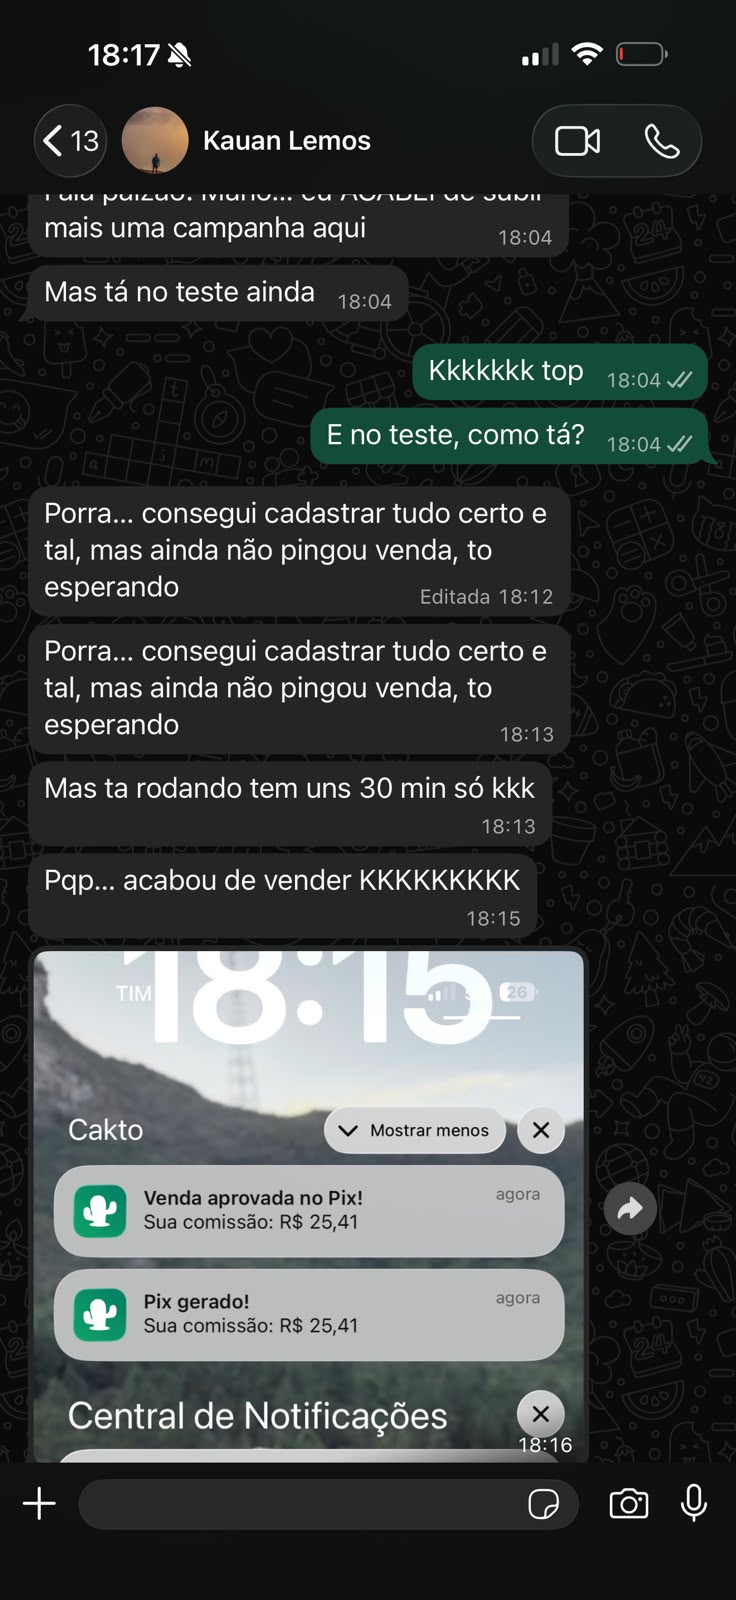
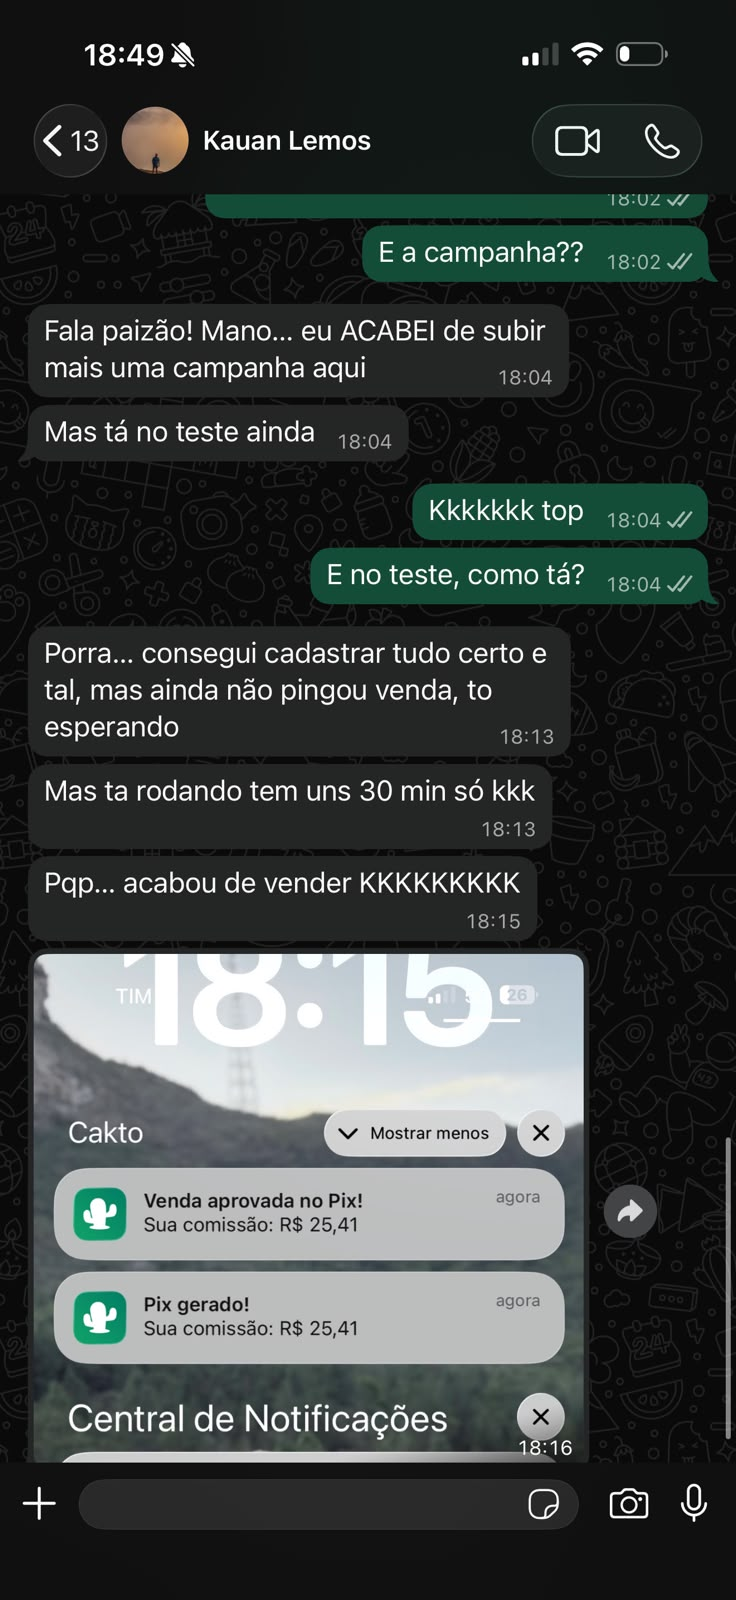
ajustes bordas

diff --git a/index.html b/index.html
@@ -3,10 +3,10 @@
   <head>
     <meta charset="UTF-8" />
     <meta name="viewport" content="width=device-width, initial-scale=1.0" />
-    <title>Método P+100 — Fature seu primeiro dinheiro online em 24h</title>
+    <title>Método P+100 — Venda hoje como produtor</title>
     <meta
       name="description"
-      content="+100 PLRs prontos para você começar no mercado digital do absoluto zero. Garantia de primeira venda em 24h ou R$100 no seu Pix."
+      content="+100 Produtos prontos para você começar no mercado digital do absoluto zero. Garantia de primeira venda em 24h ou R$100 no seu Pix."
     />
     <meta
       property="og:title"
@@ -14,7 +14,7 @@
     />
     <meta
       property="og:description"
-      content="+100 PLRs prontos para você começar no mercado digital sem criar nada, sem gastar com anúncios. Garantia real."
+      content="+100 Produtos prontos para você começar no mercado digital sem criar nada, sem gastar com anúncios."
     />
     <meta property="og:type" content="website" />
 
@@ -552,11 +552,13 @@
         overflow-x: auto;
         scroll-snap-type: x mandatory;
         -webkit-overflow-scrolling: touch;
+        padding: 0 16px;
       }
       .carousel__img {
-        flex: 0 0 100%;
+        flex: 0 0 72%;
         scroll-snap-align: center;
         border-radius: var(--radius);
+        border: 1px solid var(--blue-light);
       }
       @media (min-width: 640px) {
         .carousel__track {
@@ -1306,7 +1308,7 @@
           </div>
           <div class="testimonial">
             <div class="testimonial__quote">
-              "Já tinha tentado ser afiliado mas não ia pra frente. Com os PLRs
+              "Já tinha tentado ser afiliado mas não ia pra frente. Com os Produtos
               prontos eu só copiei, colei e vendi. Faturei R$ 380,00 na primeira
               semana."
             </div>
@@ -1447,7 +1449,7 @@
                 type="button"
                 aria-expanded="false"
               >
-                <span>Posso revender os PLRs?</span>
+                <span>Posso revender os Produtos?</span>
                 <span class="faq-item__arrow">&#9660;</span>
               </button>
               <div class="faq-item__answer">
